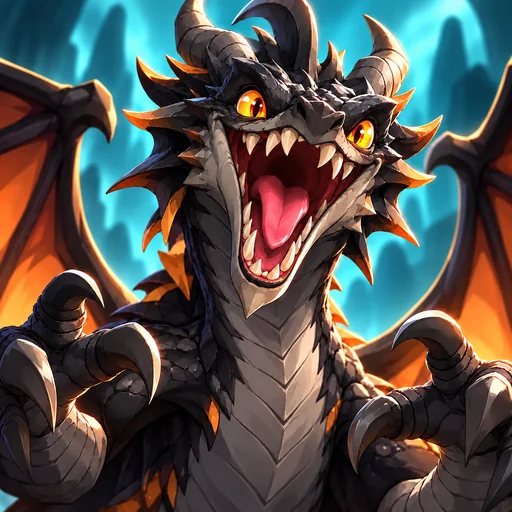
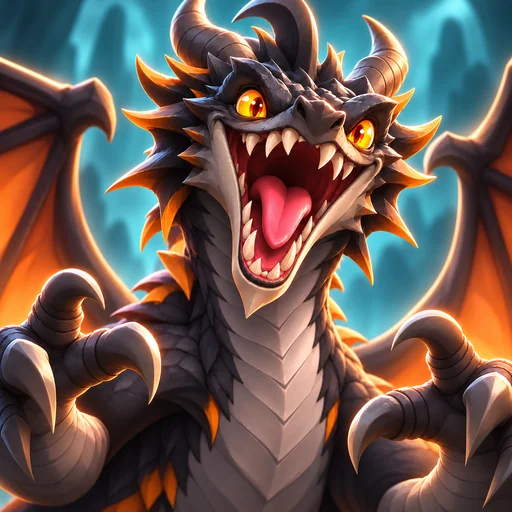
art(ui): Shrieker new art; Big Spender pulses once per turn (R-BIG-SPENDER-PROC-01)

diff --git a/packages/rules/src/registry/approved/runes.ts b/packages/rules/src/registry/approved/runes.ts
@@ -3358,4 +3358,20 @@ export const RUNES_RULES: GameRule[] = [
     example: 'Big Spender held, 20 Gold spent this turn: Rope Wrangler casts Lasso 5 times (1 + 40 / 10), not 3.',
     enforcement: { kind: 'scenario', refs: ['packages/sim/src/bigSpenderAllSpendCounts.test.ts', 'packages/ui/src/bigSpenderLiveText.test.ts'], lastVerifiedAt: '2026-11-17' },
   },
+  {
+    id: 'R-BIG-SPENDER-PROC-01',
+    title: 'Big Spender pulses once per turn, not on every Gold spent',
+    statement:
+      'Big Spender still counts every Gold spent twice (R-BIG-SPENDER-ALL-01), but its rune proc animation plays only on the '
+      + 'first counted spend of each turn, not on every spend.',
+    domain: 'runes',
+    status: 'approved',
+    evidence: [
+      { kind: 'owner-chat', ref: 'Kevin, 2026-11-17', quote: "big spender rune doesnt need to animate on every gold spent. it's distracting and overboard" },
+      { kind: 'code', ref: 'packages/sim/src/reducer.ts spendGold (procRuneId gated on goldSpentExtraThisTurn)' },
+    ],
+    currentBehaviour: 'Conforms from 2026-11-17. Before, the rune pulsed on every Gold spend.',
+    example: 'Kev holds Big Spender and Refreshes four times in one turn: the rune pulses once.',
+    enforcement: { kind: 'scenario', refs: ['packages/sim/src/bigSpenderAllSpendCounts.test.ts'], lastVerifiedAt: '2026-11-17' },
+  },
 ];

diff --git a/packages/sim/src/bigSpenderAllSpendCounts.test.ts b/packages/sim/src/bigSpenderAllSpendCounts.test.ts
@@ -165,3 +165,14 @@ describe('Big Spender: every Gold-spent count counts each Gold twice (x3 with tw
     expect(countedGoldSpent(s)).toBe(10);
   });
 });
+
+describe('Big Spender pulses once per turn, not on every Gold spent (owner 2026-11-17, R-BIG-SPENDER-PROC-01)', () => {
+  it('several spends in one turn stamp ONE rune proc; a new turn can pulse again', () => {
+    let s = spend(run(1, { runeProcs: {} }), 4); // several Refreshes, several separate spends
+    expect(s.runeProcs?.rune_big_spender).toBe(1);
+    s = spend(s, 3);
+    expect(s.runeProcs?.rune_big_spender, 'more spends the same turn add nothing').toBe(1);
+    const next = spend({ ...s, wave: s.wave + 1, goldSpentThisTurn: 0, goldSpentExtraThisTurn: 0, runeProcs: {} }, 1);
+    expect(next.runeProcs?.rune_big_spender, 'the next turn pulses once again').toBe(1);
+  });
+});

diff --git a/packages/sim/src/reducer.ts b/packages/sim/src/reducer.ts
@@ -86,7 +86,9 @@ function spendGold(s: RunState, amount: number): void {
   // `amount` counted. Only the Gold paid and the real tallies above (economy stats, telemetry) stay real.
   const mult = amount > 0 ? goldCountMult(s) : 1;
   if (mult > 1) {
-    procRuneId(s, 'rune_big_spender');
+    // Owner 2026-11-17: "big spender rune doesnt need to animate on every gold spent. it's distracting and overboard".
+    // The rune pulses ONCE per turn, on the turn's first counted spend, not on every Gold spent.
+    if ((s.goldSpentExtraThisTurn ?? 0) === 0) procRuneId(s, 'rune_big_spender');
     const extra = amount * (mult - 1);
     s.goldSpentExtra = (s.goldSpentExtra ?? 0) + extra;
     s.goldSpentExtraThisTurn = (s.goldSpentExtraThisTurn ?? 0) + extra;

diff --git a/packages/ui/src/patchNotes.ts b/packages/ui/src/patchNotes.ts
@@ -58,6 +58,7 @@ export const PATCH_NOTES: PatchNote[] = [
   {
     date: '2026-11-17',
     changes: [
+      { category: 'Systems', text: 'New art for Shrieker. Big Spender now flashes once per turn instead of on every Gold spent.' },
       {
         category: 'Systems',
         text: 'Ancients are here. The ancient gods have awoken.',
